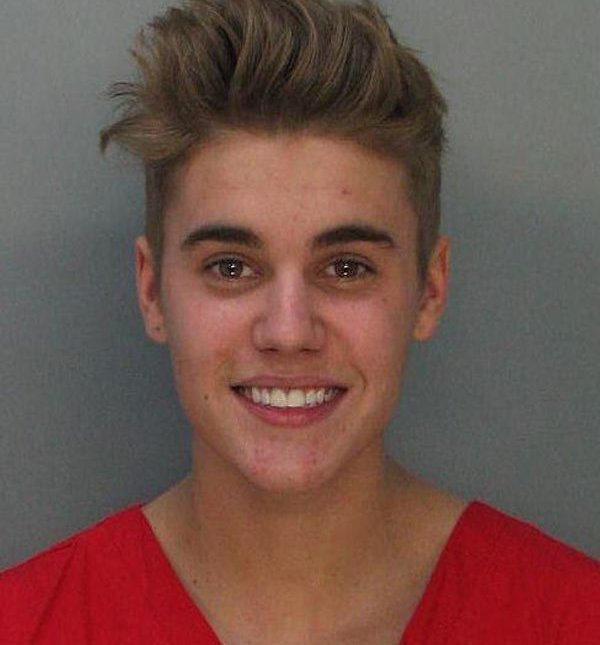
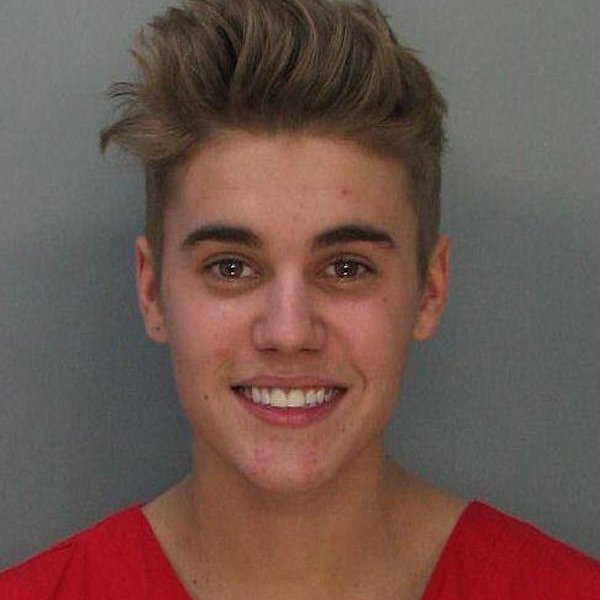
Make the Bieber mugshot the correct size

diff --git a/app/assets/stylesheets/users.css.scss b/app/assets/stylesheets/users.css.scss
@@ -82,12 +82,17 @@
   .writer {
     display: inline-block;
     width: 330px;
+    height: 330px;
     position: relative;
 
     .writer_avatar {
       font-size: 0px;
       a { font-size: 0px; }
-      img { max-width: 100%; font-size: 0px;}
+      img { 
+        max-width: 100%; 
+        max-height: 100%; 
+        font-size: 0px;
+      }
     }
 
     .writer_name a {
@@ -119,6 +124,7 @@
 #contributers {
   .writer {
     width: 160px;
+    height: 160px;
     
     .writer_name a {
       font-size: 1em;
